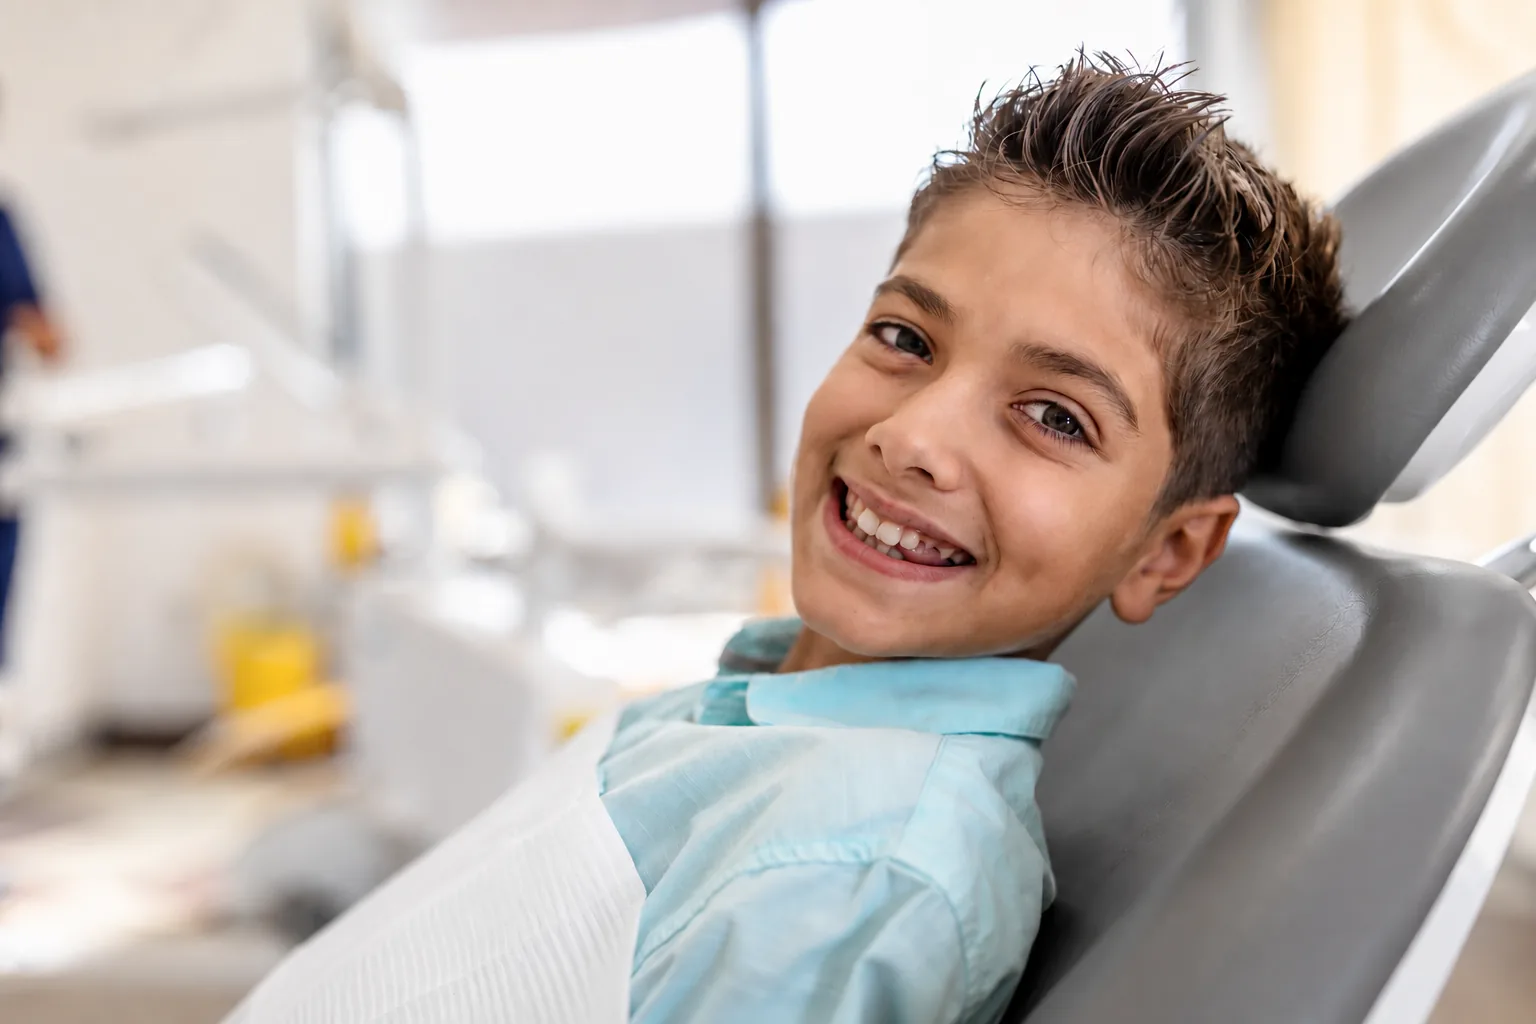
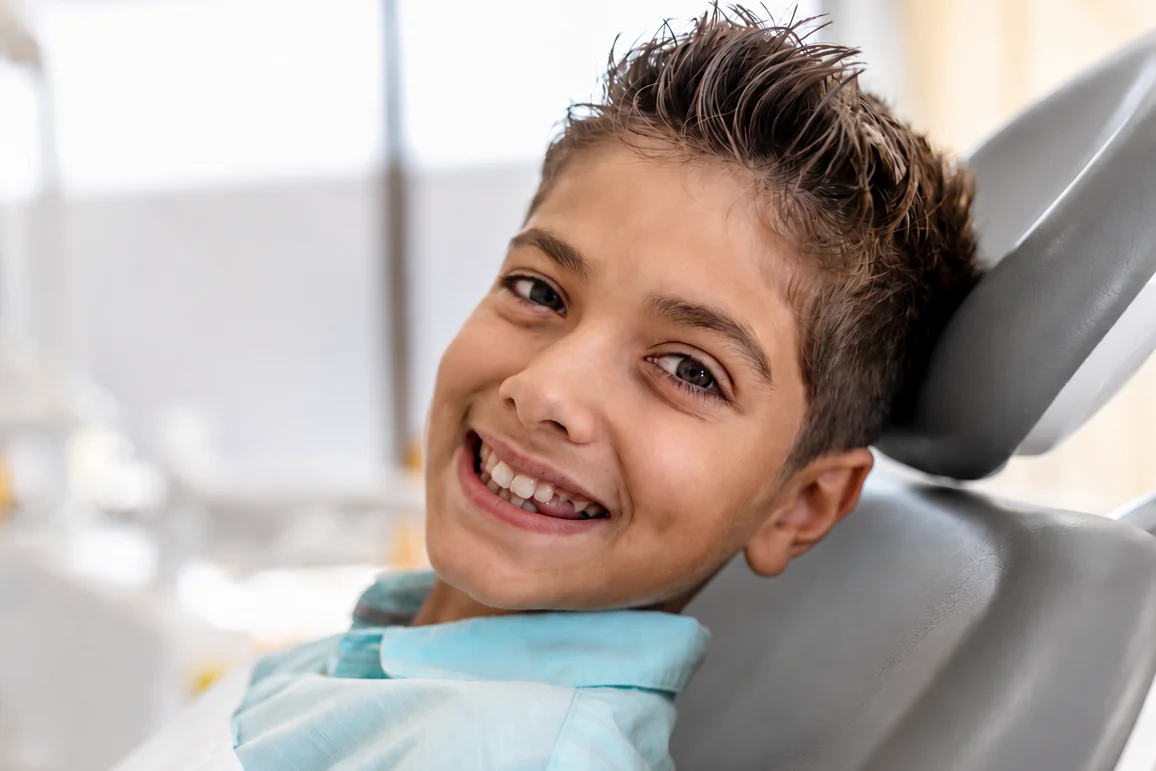
Startseite, Block Jugendliche: Foto enger zugeschnitten nach Entwurf von Frau Dr. Marinello
Ausschnitt wie im Entwurf der Kundin, aber aus der unkomprimierten Retusche geschnitten (1156x771). Bildschwerpunkt angepasst, damit die Haare auf breiten Bildschirmen nicht abgeschnitten werden.

Claude-Session: https://claude.ai/code/session_01GhTW8za37ph6RXUXMvd5Jg

diff --git a/website/index.html b/website/index.html
@@ -397,7 +397,7 @@
         </div>
       </article>
       <article class="halb halb--rahmen halb--gedreht">
-        <div class="halb__bild zeigen zeigen--bild"><div class="flaeche" role="img" aria-label="Lachender Junge lehnt entspannt im gelben Behandlungsstuhl" data-flaeche="background-image:url('img/kieferorthopaedie-butzbach-jugendlicher-behandlungsstuhl.jpg');background-image:image-set(url('img/kieferorthopaedie-butzbach-jugendlicher-behandlungsstuhl.webp') type('image/webp'),url('img/kieferorthopaedie-butzbach-jugendlicher-behandlungsstuhl.jpg') type('image/jpeg'));--fokus:72% 45%"><noscript><img src="img/kieferorthopaedie-butzbach-jugendlicher-behandlungsstuhl.jpg" alt="Lachender Junge lehnt entspannt im gelben Behandlungsstuhl" width="1536" height="1024" loading="lazy" decoding="async"></noscript></div></div>
+        <div class="halb__bild zeigen zeigen--bild"><div class="flaeche" role="img" aria-label="Lachender Junge lehnt entspannt im gelben Behandlungsstuhl" data-flaeche="background-image:url('img/kieferorthopaedie-butzbach-jugendlicher-behandlungsstuhl.jpg');background-image:image-set(url('img/kieferorthopaedie-butzbach-jugendlicher-behandlungsstuhl.webp') type('image/webp'),url('img/kieferorthopaedie-butzbach-jugendlicher-behandlungsstuhl.jpg') type('image/jpeg'));--fokus:58% 10%"><noscript><img src="img/kieferorthopaedie-butzbach-jugendlicher-behandlungsstuhl.jpg" alt="Lachender Junge lehnt entspannt im gelben Behandlungsstuhl" width="1156" height="771" loading="lazy" decoding="async"></noscript></div></div>
         <div class="halb__text">
           <div class="zeigen">
             <p class="label">Das Wachstum nutzen</p>
